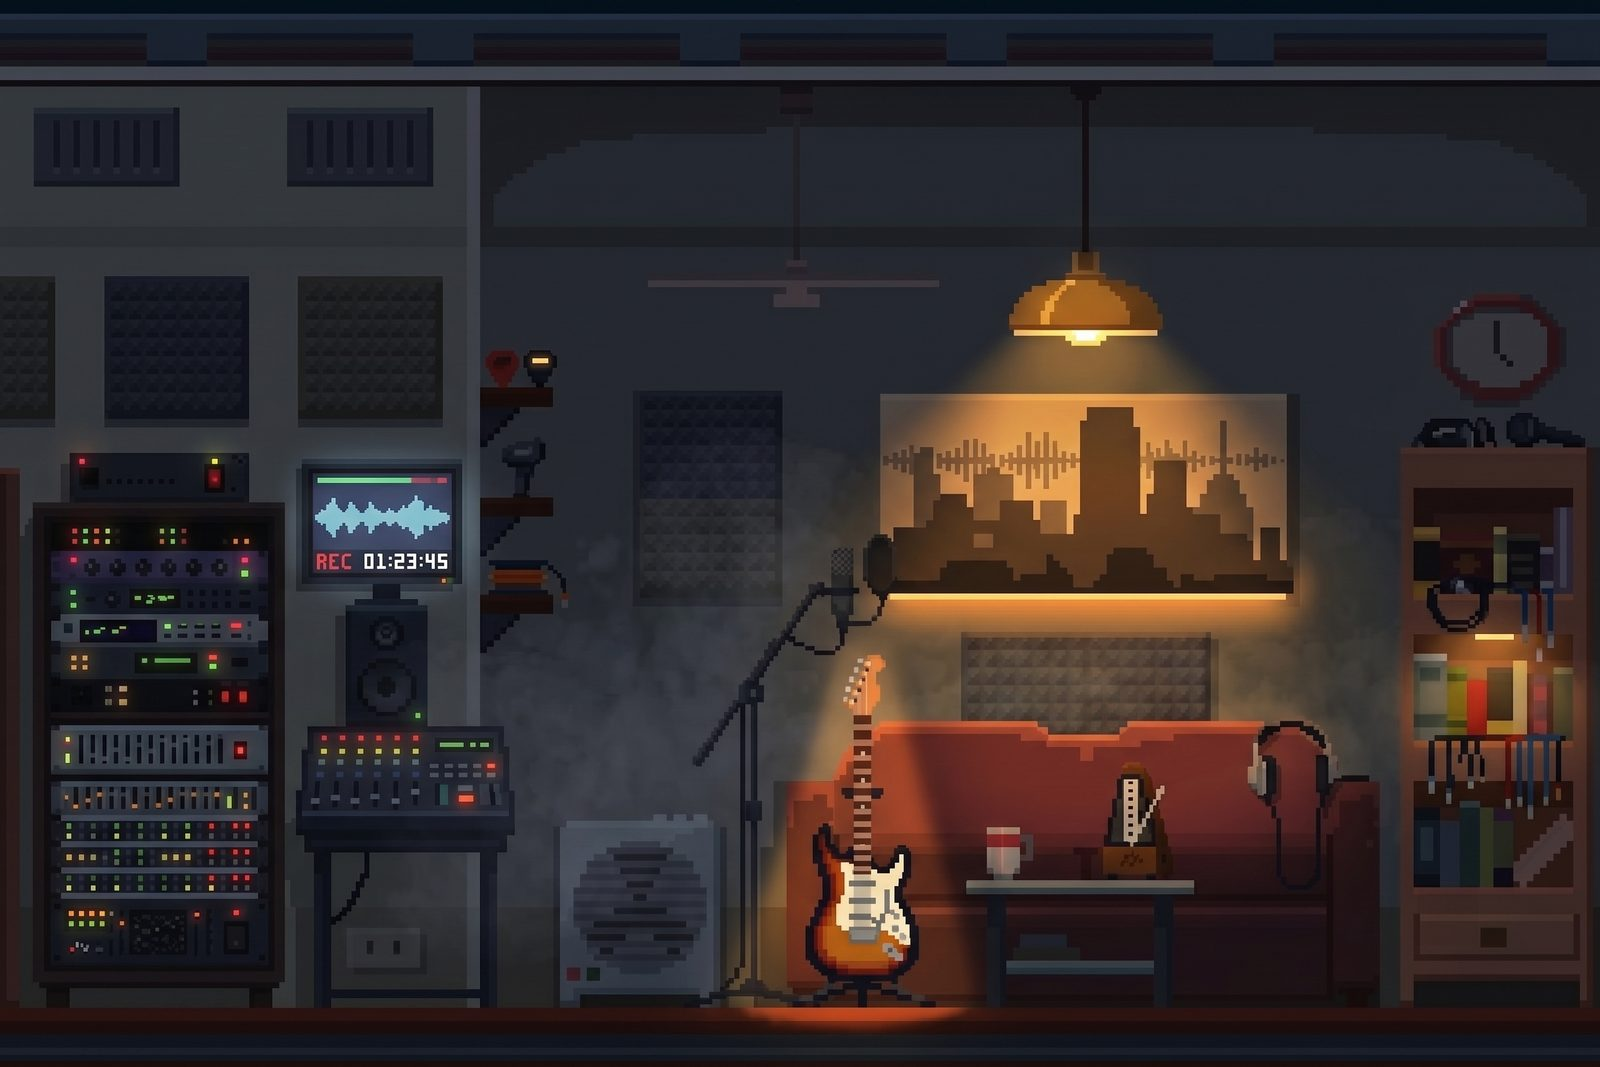
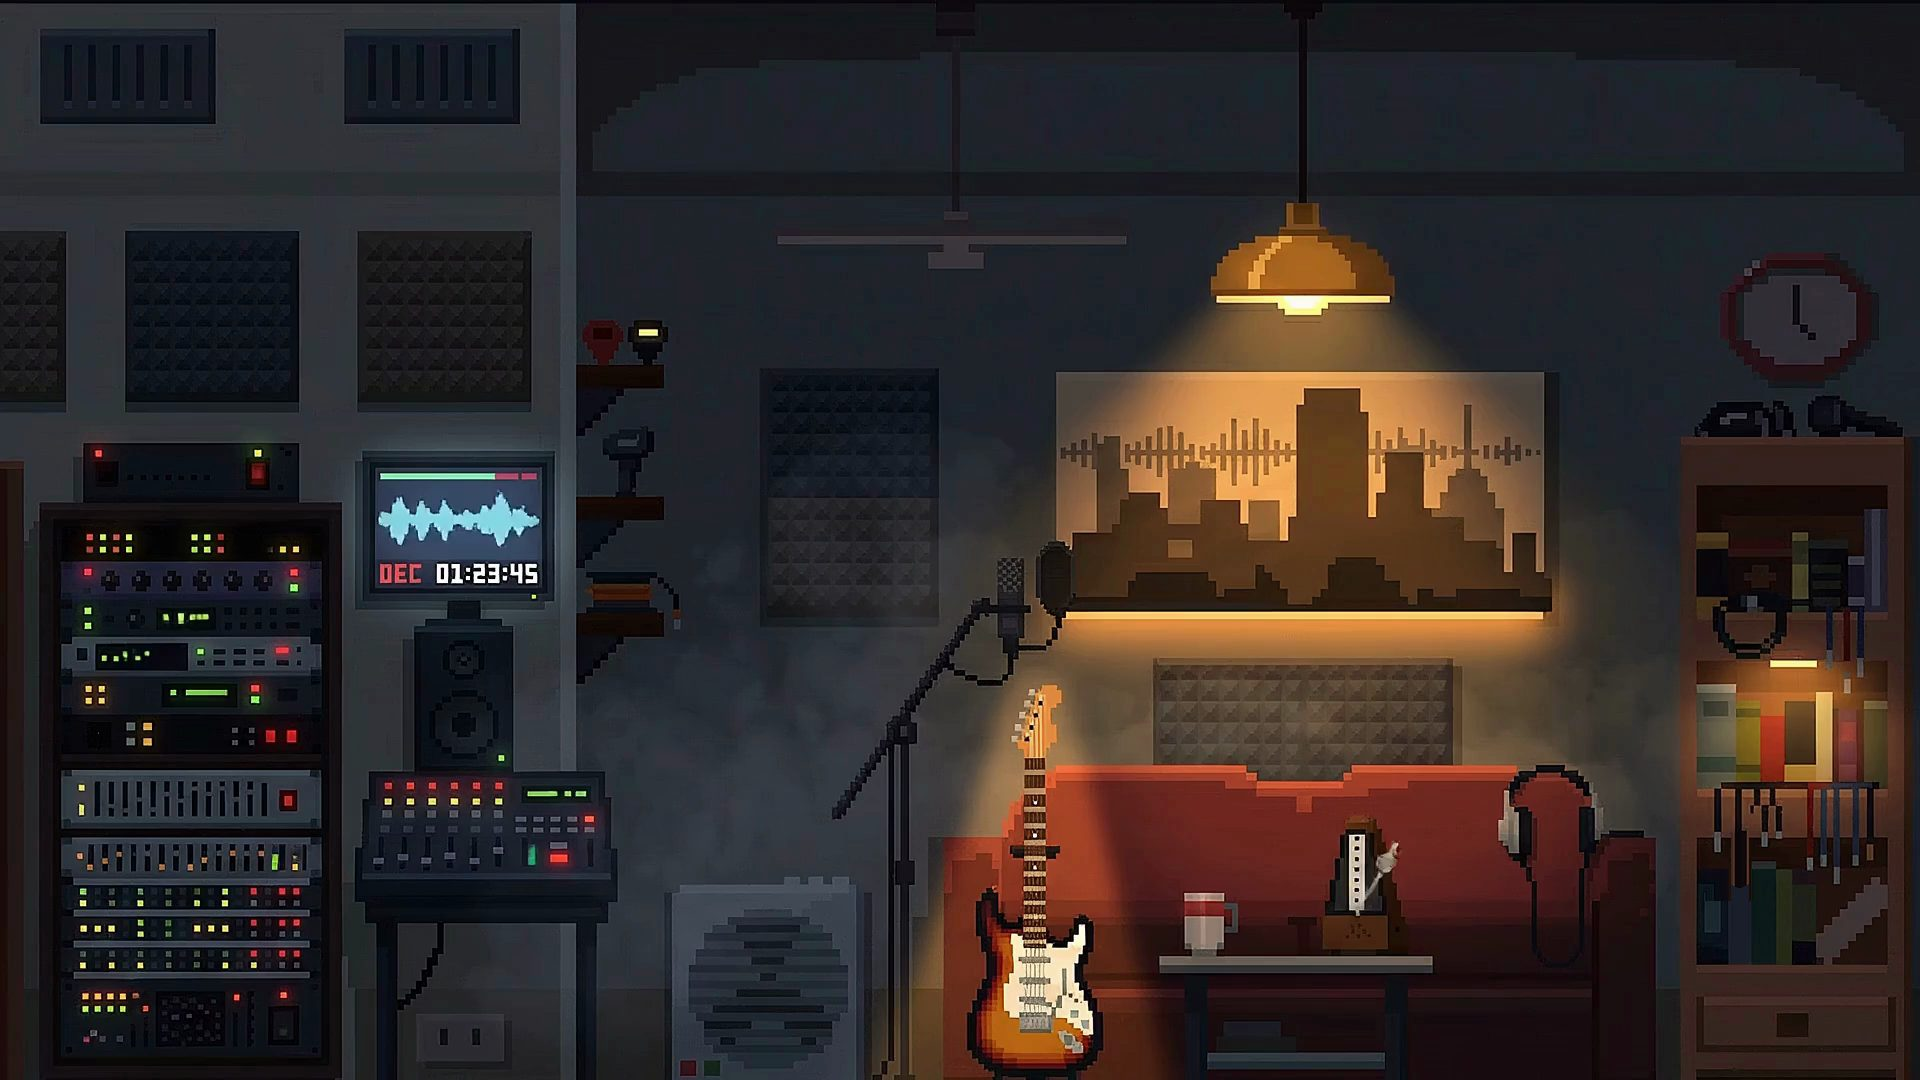
feat(stage): 场景平时静帧，hover 苏醒 + 演播大厅物件功能映射（第一批）
静帧策略：
- 背景视频不再自动播放，hover 演播厅才播放，移出回到静帧
- 点击背景钉住常播/取消；切离主场景自动暂停
- poster 重制为去水印视频首帧（1920×1080），与视频 cover 裁剪对齐不跳变

物件映射（Diegetic UI §9，仅演播大厅）：
- REC 监视器：点击 = 真实走带播放/暂停（新增 Adapter.setTransport）
- 调音台通道灯：drums/bass/keys 角色色 LED = TrackAudibleChanged 发声确认
- 吊灯光晕：isPlaying 能量指示，播放时亮起
- 墙上时钟：指针随循环进度旋转，暂停即冻结
- 沙发旁的吉他：点击 = 触发「换乐器」干预（真实计划链路）

diff --git a/opendaw/packages/app/studio/src/agent/AgentOverlay.tsx b/opendaw/packages/app/studio/src/agent/AgentOverlay.tsx
@@ -80,16 +80,12 @@ export const AgentOverlay = ({lifecycle, service}: Construct) => {
     // 屏幕内 REC 灯牌（权威播放指示，与 ON AIR 同源）
     const recBadge: HTMLElement = (<div className="rec-badge standby">STANDBY</div>)
     // 舞台背景：夜晚棚内循环视频（唯一皮肤，无昼夜切换）
+    // 平时保持静帧（poster = 去水印首帧，与视频同规格 1920×1080 对齐 cover 裁剪）；
+    // 只有 hover 演播厅时才苏醒播放，点击背景可钉住常播
     const stageVideo: HTMLVideoElement = (
-        <video className="stage-bg-video" loop playsInline poster="/dawdex/studio_night.jpg" draggable={false}/>)
+        <video className="stage-bg-video" loop playsInline preload="auto" poster="/dawdex/studio_night.jpg" draggable={false}/>)
     stageVideo.src = "/dawdex/studio_night_loop.mp4"
     stageVideo.muted = true
-    stageVideo.autoplay = true
-    stageVideo.play().catch(() => {
-        // 自动播放被拒时保持 poster 静帧，首次点击页面后补播
-        const resume = () => stageVideo.play().catch(() => {})
-        window.addEventListener("click", resume, {once: true})
-    })
     // 巡棚：非主场景的静态房间背景（切台硬切，TV 气质）
     const stageImg: HTMLImageElement = (
         <img className="stage-bg-img hidden" alt="" draggable={false}/>)
@@ -117,6 +113,19 @@ export const AgentOverlay = ({lifecycle, service}: Construct) => {
             <span className="lamp"/>
             <label>制作人</label>
         </div>)
+    // ── 演播大厅物件热点（Diegetic UI §9：场景物件 = 真实 DAW 数据源/操作入口） ──
+    // 坐标按 1920×1080 视频帧标定，并换算 cover 裁剪（舞台 16:9.5）：stage_x% = fx*105.56 - 2.78
+    const recMonitor: HTMLElement = (
+        <div className="hotspot rec-monitor" title="REC 监视器 · 点击播放 / 暂停走带"/>)
+    const ledDrums: HTMLElement = (<span className="rack-led" data-role="drums" title="鼓轨道 · 发声确认灯"/>)
+    const ledBass: HTMLElement = (<span className="rack-led" data-role="bass" title="贝斯轨道 · 发声确认灯"/>)
+    const ledKeys: HTMLElement = (<span className="rack-led" data-role="keys" title="键盘轨道 · 发声确认灯"/>)
+    const lampGlow: HTMLElement = (<div className="lamp-glow"/>)
+    const clockHand: HTMLElement = (<div className="clock-hand"/>)
+    const guitarHotspot: HTMLElement = (
+        <div className="hotspot guitar" title="沙发旁的吉他 · 点击触发「换乐器」干预"/>)
+    const rackLeds = new Map<RoleId, HTMLElement>([
+        ["drums", ledDrums], ["bass", ledBass], ["keys", ledKeys]])
     // 舞台容器（巡棚切换作用于此）
     const stageEl: HTMLElement = (
         <div className="stage" data-room="main">
@@ -126,6 +135,13 @@ export const AgentOverlay = ({lifecycle, service}: Construct) => {
             <div className="performers">{performers}{producerEl}</div>
             {noise}
             {danmakuLayer}
+            <div className="hotspots">
+                {lampGlow}
+                {recMonitor}
+                {ledDrums}{ledBass}{ledKeys}
+                {clockHand}
+                {guitarHotspot}
+            </div>
             {recBadge}
             <div className="transport">
                 {transportReadout}
@@ -134,6 +150,15 @@ export const AgentOverlay = ({lifecycle, service}: Construct) => {
         </div>)
     // 巡棚切台
     let roomIndex = 0
+    // ── 场景苏醒：平时静帧，hover 播放；点击背景钉住/取消常播 ──
+    let bgPinned = false
+    const bgPlay = () => {
+        if (ROOMS[roomIndex].bg === null) {stageVideo.play().catch(() => {})}
+    }
+    const bgStop = () => {
+        stageVideo.pause()
+        stageVideo.currentTime = 0
+    }
     const setRoom = (index: number) => {
         roomIndex = ((index % ROOMS.length) + ROOMS.length) % ROOMS.length
         const room = ROOMS[roomIndex]
@@ -142,10 +167,12 @@ export const AgentOverlay = ({lifecycle, service}: Construct) => {
         if (room.bg === null) {
             stageImg.classList.add("hidden")
             stageVideo.classList.remove("hidden")
+            if (bgPinned) {bgPlay()}
         } else {
             stageImg.src = room.bg
             stageImg.classList.remove("hidden")
             stageVideo.classList.add("hidden")
+            stageVideo.pause()
         }
     }
     const roleStates = new Map<RoleId, RoleState>()
@@ -173,6 +200,8 @@ export const AgentOverlay = ({lifecycle, service}: Construct) => {
         onAirLamp.classList.toggle("lit", playing)
         recBadge.classList.toggle("standby", !playing)
         recBadge.textContent = playing ? "● REC" : "STANDBY"
+        // 吊灯 = 能量指示灯：播放时亮起（Diegetic 绑定）
+        lampGlow.classList.toggle("lit", playing)
         // 走带暂停 = 角色动画冻结（诚实状态：没有声音就没有演奏）
         root.classList.toggle("transport-paused", !playing)
         // 角色演奏动画的一拍时长由权威 BPM 驱动，不写死
@@ -226,6 +255,8 @@ export const AgentOverlay = ({lifecycle, service}: Construct) => {
                 ? `BAR ${bar}/${barsPerLoop} · ${Math.round(bpm)} BPM · ${keySig}`
                 : `⏸ 已暂停 · BAR ${bar}/${barsPerLoop} · ${Math.round(bpm)} BPM · ${keySig}`
         transportBar.style.width = `${(loopPos * 100).toFixed(1)}%`
+        // 墙上时钟 = 循环进度（指针随 loopPos 旋转，暂停即冻结）
+        clockHand.style.transform = `rotate(${(loopPos * 360).toFixed(1)}deg)`
         requestAnimationFrame(tick)
     }
     requestAnimationFrame(tick)
@@ -293,6 +324,8 @@ export const AgentOverlay = ({lifecycle, service}: Construct) => {
                 break
             case "TrackAudibleChanged":
                 enterRole(event.role)
+                // 调音台角色色通道灯 = 轨道发声确认（Diegetic 绑定）
+                rackLeds.get(event.role)?.classList.toggle("on", event.audible)
                 if (event.audible) {
                     audibleRoles.add(event.role)
                     const pendingReason = pendingPerforming.get(event.role)
@@ -342,6 +375,7 @@ export const AgentOverlay = ({lifecycle, service}: Construct) => {
         danmakuText.clear()
         Html.empty(receiptList)
         audibleRoles.clear()
+        rackLeds.forEach(led => led.classList.remove("on"))
         pendingPerforming.clear()
         enteredRoles.clear()
         STAGE_ROLES.forEach(({id}) => {
@@ -676,6 +710,26 @@ export const AgentOverlay = ({lifecycle, service}: Construct) => {
         }),
         Events.subscribe(chPrev, "click", () => setRoom(roomIndex - 1)),
         Events.subscribe(chNext, "click", () => setRoom(roomIndex + 1)),
+        // ── 场景苏醒：hover 播放，移出归静帧；点击背景钉住常播 ──
+        Events.subscribe(stageEl, "mouseenter", bgPlay),
+        Events.subscribe(stageEl, "mouseleave", () => {
+            if (!bgPinned) {bgStop()}
+        }),
+        Events.subscribe(stageEl, "click", () => {
+            bgPinned = !bgPinned
+            if (bgPinned) {bgPlay()} else {bgStop()}
+        }),
+        // ── 演播大厅物件热点：REC 监视器 = 真实走带开关；吉他 = 换乐器干预 ──
+        Events.subscribe(recMonitor, "click", event => {
+            event.stopPropagation()
+            const result = daw.setTransport(!isPlaying)
+            appendEvent(`REC 监视器：${result.message}`, result.success ? "success" : "normal")
+        }),
+        Events.subscribe(guitarHotspot, "click", event => {
+            event.stopPropagation()
+            appendEvent("拿起了沙发旁的吉他…", "working")
+            intervene("swap-instrument")
+        }),
         Terminable.create(stopLoginPolling)
     )
 

diff --git a/opendaw/packages/app/studio/src/agent/AgentOverlay.sass b/opendaw/packages/app/studio/src/agent/AgentOverlay.sass
@@ -388,6 +388,94 @@ component
       color: rgba(255, 255, 255, 0.8)
       font-size: clamp(11px, 1.3vw, 14px)
 
+  // ── 演播大厅物件热点（Diegetic UI §9，仅 main 房间渲染） ──
+  // 坐标：1920×1080 视频帧标定 → cover 换算（stage_x% = fx*105.56 - 2.78，y 不裁）
+  .hotspots
+    position: absolute
+    inset: 0
+    z-index: 6
+    pointer-events: none
+
+  .stage:not([data-room="main"]) .hotspots
+    display: none
+
+  .hotspot
+    position: absolute
+    pointer-events: auto
+    cursor: pointer
+    border-radius: 6px
+    transition: background 180ms ease, box-shadow 180ms ease
+    &:hover
+      background: rgba(255, 255, 255, 0.06)
+      box-shadow: 0 0 0 1px rgba($amber, 0.55), 0 0 18px rgba($amber, 0.25)
+
+  // REC 监视器（视频帧 x330-505 y440-575）= 真实走带播放/暂停
+  .rec-monitor
+    left: 15.2%
+    top: 40.5%
+    width: 9.9%
+    height: 12.8%
+
+  // 沙发旁的吉他（视频帧 x880-1070 y680-1075）= 换乐器干预
+  .guitar
+    left: 45.4%
+    top: 62.5%
+    width: 10.6%
+    height: 37%
+
+  // 调音台角色色通道灯（视频帧 y768；x 370/435/500）= TrackAudibleChanged 发声确认
+  .rack-led
+    position: absolute
+    top: 70.2%
+    width: 0.85%
+    aspect-ratio: 1
+    border-radius: 50%
+    background: #39322b
+    box-shadow: 0 0 0 1px rgba(0, 0, 0, 0.65)
+    transition: background 200ms ease, box-shadow 200ms ease
+    &[data-role="drums"]
+      left: 17.2%
+      &.on
+        background: $amber
+        box-shadow: 0 0 8px rgba($amber, 0.95), 0 0 2px $amber
+    &[data-role="bass"]
+      left: 20.8%
+      &.on
+        background: $mint
+        box-shadow: 0 0 8px rgba($mint, 0.95), 0 0 2px $mint
+    &[data-role="keys"]
+      left: 24.4%
+      &.on
+        background: $magenta
+        box-shadow: 0 0 8px rgba($magenta, 0.95), 0 0 2px $magenta
+
+  // 吊灯光晕（视频帧中心 x1295 y290）= 走带能量指示，播放时亮起
+  .lamp-glow
+    position: absolute
+    left: 58.5%
+    top: 13%
+    width: 20%
+    height: 32%
+    border-radius: 50%
+    background: radial-gradient(ellipse at center, rgba(255, 196, 90, 0.50), rgba(255, 196, 90, 0) 68%)
+    mix-blend-mode: screen
+    opacity: 0
+    transition: opacity 600ms ease
+    &.lit
+      opacity: 1
+
+  // 墙上时钟指针（视频帧中心 x1780 y315）= 循环进度，随 loopPos 旋转
+  .clock-hand
+    position: absolute
+    left: 94.9%
+    top: 26.4%
+    width: 3px
+    height: 2.9%
+    background: rgba(24, 18, 14, 0.92)
+    border-radius: 2px
+    transform-origin: 50% 100%
+    pointer-events: none
+
   // 权威时钟 + 循环进度
   .transport
     position: absolute
